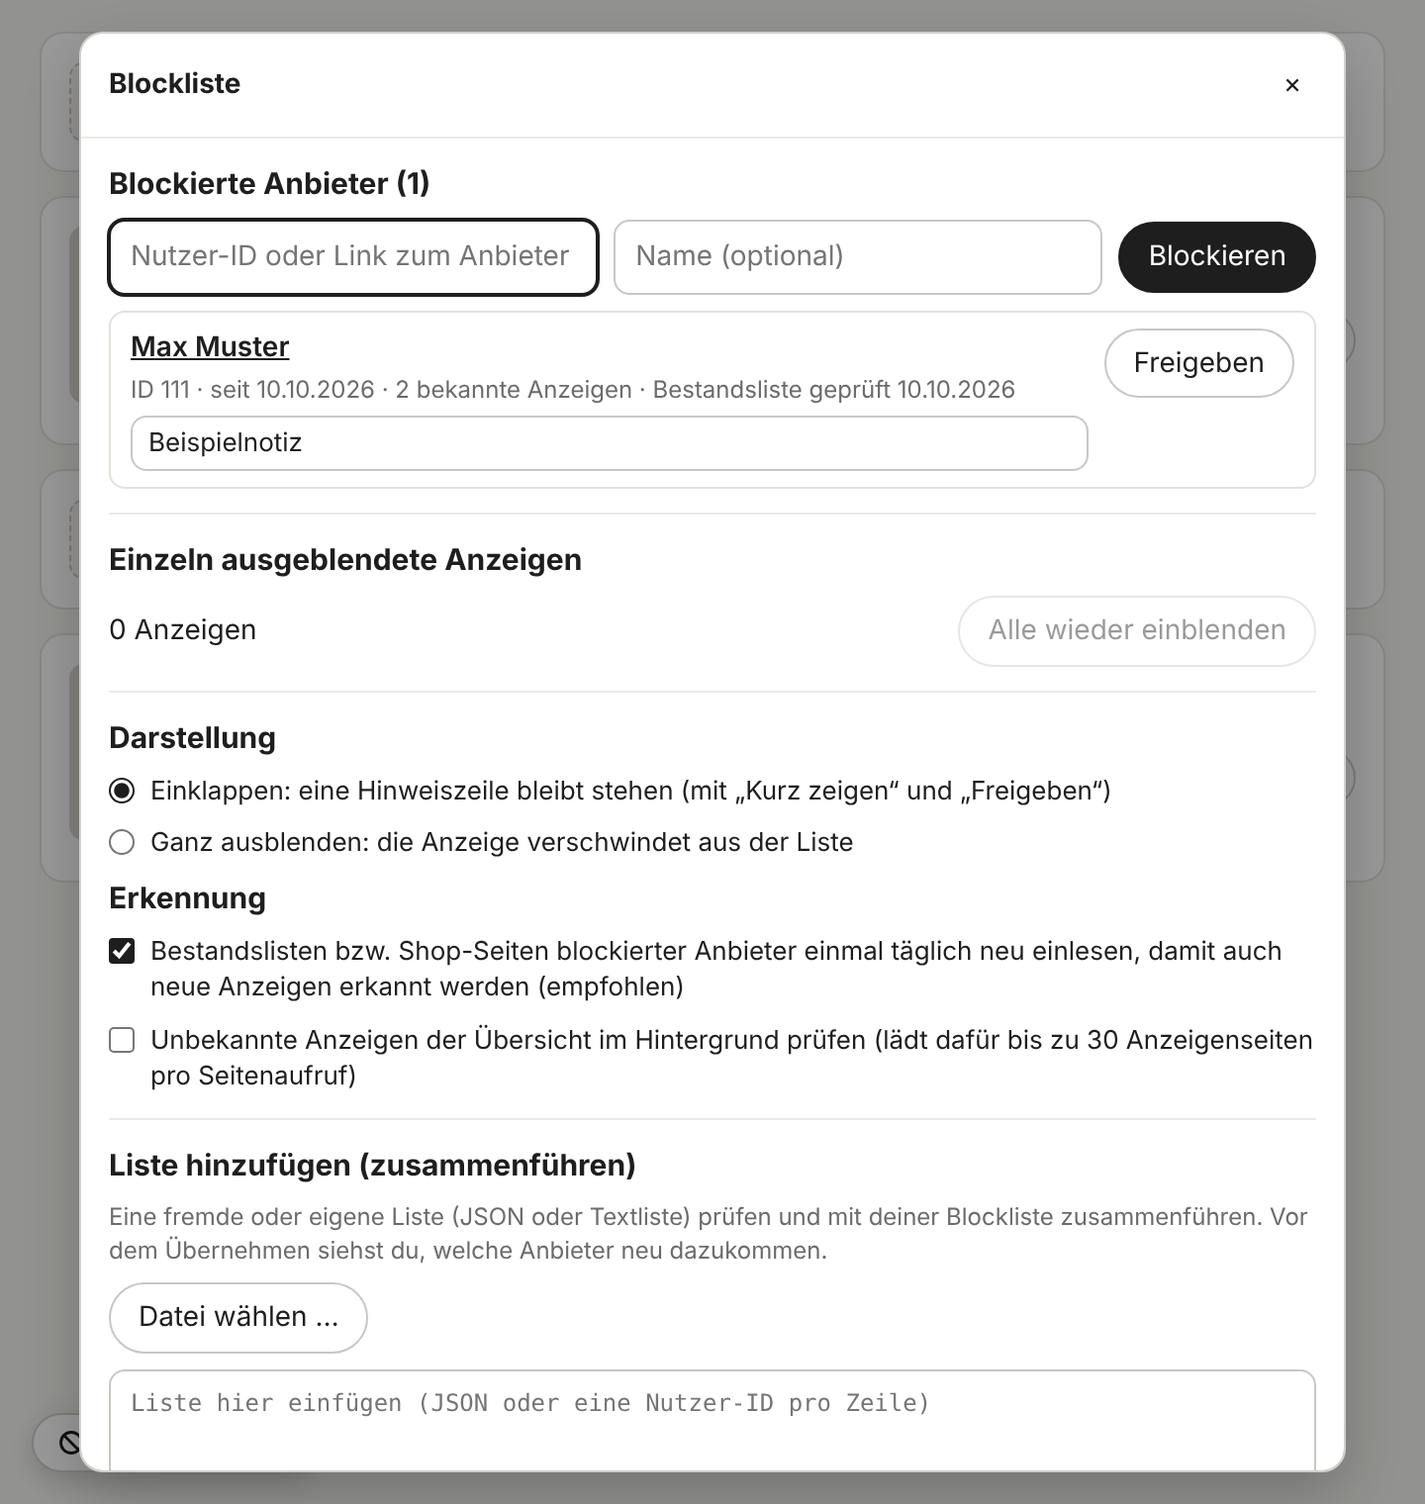
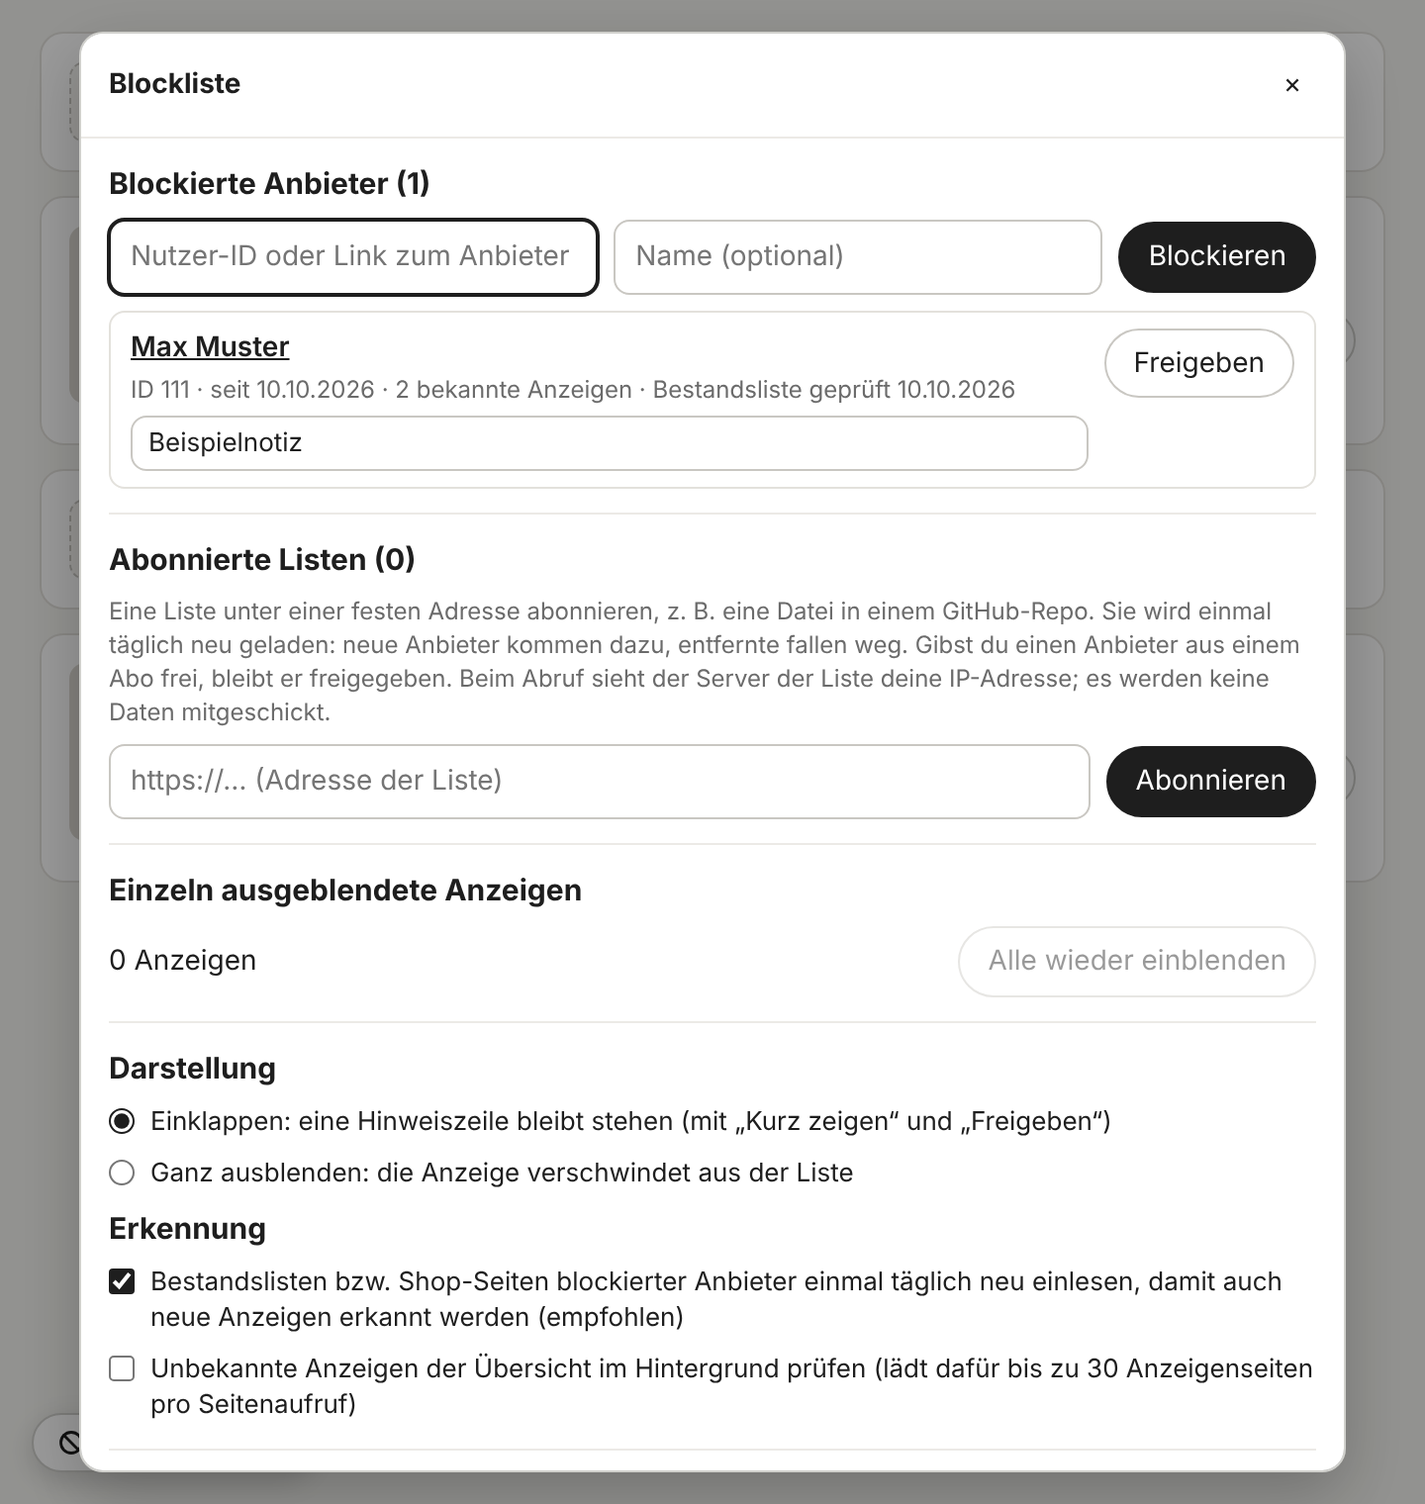
0.3.0: Listen abonnieren
- Neuer Abschnitt "Abonnierte Listen" in der Verwaltung: https-Adresse
  eintragen (GitHub-Dateiansicht wird in den Rohtext-Link umgewandelt),
  Liste wird sofort und danach höchstens einmal täglich geladen
- Abgleich: neue Anbieter dazu, nicht mehr gelistete weg; eigene Einträge
  und Einträge aus zusammengeführten Listen bleiben unberührt
- Freigeben eines Anbieters aus einem Abo wird als Ausnahme gemerkt
  ("Ausnahmen zurücksetzen" hebt das auf); "Entfernen" beendet das Abo
- Einträge aus Abos stehen nicht in der eigenen Liste und werden nicht
  exportiert; einzelne Anzeigen aus Abos werden nicht übernommen
- Abruf über GM_xmlhttpRequest ohne Cookies, max. 2 MB, 20 s Zeitlimit
  (neue Berechtigung, @connect)
- README: Anleitung, gemeinsame Liste bereitstellen, Datenschutz-Hinweis,
  Vorschaubild

Claude-Session: https://claude.ai/code/session_014sFgFRkrmEZ3zcA73WQFGZ

Changed region(s): [[0.0625, 0.3401, 0.9375, 0.9586]]

diff --git a/script.user.js b/script.user.js
@@ -1,11 +1,11 @@
 // ==UserScript==
 // @name          Kleinanzeigen - Nutzer ausblenden (Blockliste)
 // @namespace     https://github.com/RainbowLabsInc/Kleinanzeigen.de-User_ausblenden
-// @description   Blendet auf Kleinanzeigen.de Anzeigen von Nutzerinnen und Nutzern aus, die du blockierst. Eigene Blockliste mit Notizen, einzelne Anzeigen ausblenden, Listen exportieren und zusammenführen.
+// @description   Blendet auf Kleinanzeigen.de Anzeigen von Nutzerinnen und Nutzern aus, die du blockierst. Eigene Blockliste mit Notizen, einzelne Anzeigen ausblenden, Listen exportieren, zusammenführen und abonnieren.
 // @author        RainbowlabsInc
 // @copyright     2026, RainbowlabsInc
 // @license       MIT
-// @version       0.2.0
+// @version       0.3.0
 // @icon          https://github.com/RainbowLabsInc/Kleinanzeigen.de-User_ausblenden/raw/main/assets/icon48.png
 // @homepage      https://github.com/RainbowLabsInc/Kleinanzeigen.de-User_ausblenden
 // @updateURL     https://github.com/RainbowLabsInc/Kleinanzeigen.de-User_ausblenden/raw/main/script.user.js
@@ -15,6 +15,10 @@
 // @grant         GM_setValue
 // @grant         GM_addValueChangeListener
 // @grant         GM_registerMenuCommand
+// @grant         GM_xmlhttpRequest
+// @connect       raw.githubusercontent.com
+// @connect       gist.githubusercontent.com
+// @connect       *
 // @noframes
 // @run-at        document-idle
 // ==/UserScript==
@@ -50,7 +54,9 @@
  * Die Blockliste lässt sich als JSON oder als Textliste (ähnlich einer Filterliste)
  * exportieren. Fremde Listen werden nach einer Vorschau mit der eigenen zusammengeführt;
  * übernommene Einträge merken sich ihre Herkunft und lassen sich gemeinsam wieder
- * freigeben. Das Format ist im README beschrieben.
+ * freigeben. Listen unter einer festen Adresse lassen sich abonnieren: Sie werden
+ * täglich neu geladen und mit der Blockliste abgeglichen. Das Format ist im README
+ * beschrieben.
  *
  * Alle Selektoren und Grenzwerte stehen gesammelt in CONFIG.
  */
@@ -58,15 +64,16 @@
 (function () {
     'use strict';
 
-    const VERSION = '0.2.0';
+    const VERSION = '0.3.0';
 
     const CONFIG = {
         keys: {
-            users: 'kua-users',          // { <userId>: { name, note, added, source? } }
+            users: 'kua-users',          // { <userId>: { name, note, added, source?, sub? } }
             ads: 'kua-hidden-ads',       // { <adId>: <Zeitstempel> } einzeln ausgeblendete Anzeigen
             index: 'kua-ad-index',       // { <adId>: <userId> } bekannte Zuordnung Anzeige -> Anbieter
             scanned: 'kua-scanned',      // { <userId>: <Zeitstempel> } letzte geladene Bestandsliste
             settings: 'kua-settings',
+            subs: 'kua-subs',            // { <url>: { title, added, lastCheck, lastSuccess, error, excluded: [] } }
         },
         defaultSettings: {
             mode: 'collapse',            // 'collapse' = Hinweiszeile, 'hide' = ganz ausblenden
@@ -88,6 +95,11 @@
         nameMax: 80,
         noteMax: 300,
         sourceMax: 80,
+        // Abonnierte Listen: so oft neu laden, pro Seitenaufruf höchstens so viele, max. Größe
+        subRefreshMs: 24 * 60 * 60 * 1000,
+        subsPerVisit: 2,
+        subMaxBytes: 2 * 1024 * 1024,
+        subTimeoutMs: 20000,
         // Link zur Bestandsliste bzw. zum Shop (Stand 10/2026)
         sellerUrl: (id) => id.startsWith('pro:')
             ? `/pro/${encodeURIComponent(id.slice(4))}`
@@ -161,6 +173,19 @@
         const m = s.match(/[?&]userId=(\d{1,15})(?!\d)/);
         if (m) return m[1];
         return ID_RE.test(s) ? s.toLowerCase() : null;
+    }
+
+    // Adresse einer abonnierten Liste: nur https, GitHub-Dateiansicht -> Rohtext
+    function normalizeListUrl(raw) {
+        if (typeof raw !== 'string') return null;
+        let url;
+        try { url = new URL(raw.trim()); } catch (e) { return null; }
+        if (url.protocol !== 'https:' || url.username || url.password) return null;
+        const blob = url.hostname === 'github.com' && url.pathname.match(/^\/([^/]+)\/([^/]+)\/(?:blob|raw)\/(.+)$/);
+        if (blob) url = new URL(`https://raw.githubusercontent.com/${blob[1]}/${blob[2]}/${blob[3]}`);
+        url.hash = '';
+        const s = url.href;
+        return s.length <= 500 ? s : null;
     }
 
     const isShop = (id) => id.startsWith('pro:');
@@ -245,6 +270,8 @@
         };
         const source = clip(o.source, CONFIG.sourceMax);
         if (source) user.source = source;
+        const sub = normalizeListUrl(o.sub);
+        if (sub) user.sub = sub;
         return user;
     }
 
@@ -294,7 +321,28 @@
             index,
             scanned,
             settings,
+            subs: loadSubs(),
         };
+    }
+
+    function loadSubs() {
+        const subs = {};
+        const raw = load(CONFIG.keys.subs, {});
+        if (!isObj(raw)) return subs;
+        for (const [rawUrl, v] of Object.entries(raw)) {
+            const url = normalizeListUrl(rawUrl);
+            if (!url || !isObj(v)) continue;
+            const num = (x) => (typeof x === 'number' ? x : 0);
+            subs[url] = {
+                title: clip(v.title, CONFIG.sourceMax),
+                added: num(v.added) || Date.now(),
+                lastCheck: num(v.lastCheck),
+                lastSuccess: num(v.lastSuccess),
+                error: clip(v.error, 200),
+                excluded: Array.isArray(v.excluded) ? v.excluded.map(normalizeUserId).filter(Boolean) : [],
+            };
+        }
+        return subs;
     }
 
     let state = loadState();
@@ -303,6 +351,7 @@
     const saveAds = () => save(CONFIG.keys.ads, state.ads);
     const saveScanned = () => save(CONFIG.keys.scanned, state.scanned);
     const saveSettings = () => save(CONFIG.keys.settings, state.settings);
+    const saveSubs = () => save(CONFIG.keys.subs, state.subs);
 
     // Neue Zuordnungen sammeln und gebündelt speichern. Vor dem Speichern mit dem
     // gespeicherten Stand zusammenführen, damit parallel offene Tabs nichts überschreiben.
@@ -493,7 +542,14 @@
     }
 
     function unblockUser(id) {
-        if (!state.users[id]) return;
+        const u = state.users[id];
+        if (!u) return;
+        // Aus einem Abo: als Ausnahme merken, sonst käme der Eintrag beim nächsten Abgleich zurück
+        const sub = u.sub && state.subs[u.sub];
+        if (sub && !sub.excluded.includes(id)) {
+            sub.excluded.push(id);
+            saveSubs();
+        }
         delete state.users[id];
         saveUsers();
         refreshPage();
@@ -508,6 +564,96 @@
     function unhideAd(adId) {
         delete state.ads[adId];
         saveAds();
+        refreshPage();
+    }
+
+    // ------------------------------------------------------------------
+    // Abonnierte Listen
+    // ------------------------------------------------------------------
+
+    // Lädt die Liste ohne Cookies. GM_xmlhttpRequest umgeht die Sicherheitsregeln der Seite
+    // (Tampermonkey fragt beim ersten Abruf einer neuen Adresse ggf. nach); ohne fetch().
+    function fetchListText(url) {
+        return new Promise((resolve, reject) => {
+            const check = (text) => (text.length > CONFIG.subMaxBytes
+                ? reject(new Error('Die Liste ist zu groß (max. 2 MB).')) : resolve(text));
+            if (typeof GM_xmlhttpRequest === 'function') {
+                GM_xmlhttpRequest({
+                    method: 'GET', url, anonymous: true, timeout: CONFIG.subTimeoutMs,
+                    headers: { 'Cache-Control': 'no-cache' },
+                    onload: (r) => (r.status >= 200 && r.status < 300 ? check(r.responseText || '') : reject(new Error(`HTTP ${r.status}`))),
+                    onerror: () => reject(new Error('Adresse nicht erreichbar oder Zugriff nicht erlaubt')),
+                    ontimeout: () => reject(new Error('Zeitüberschreitung')),
+                });
+            } else {
+                fetch(url, { credentials: 'omit', cache: 'no-cache' })
+                    .then(r => (r.ok ? r.text() : Promise.reject(new Error(`HTTP ${r.status}`))))
+                    .then(check, () => reject(new Error('Adresse nicht erreichbar')));
+            }
+        });
+    }
+
+    // Gleicht ein Abo mit der Blockliste ab: neue Anbieter dazu, nicht mehr gelistete weg.
+    // Eigene Einträge und Einträge aus anderen Listen bleiben unberührt, Ausnahmen werden übersprungen.
+    // Einzelne Anzeigen (anzeige:...) werden bei Abos nicht übernommen.
+    const syncing = new Set();
+
+    async function syncSub(url) {
+        const sub = state.subs[url];
+        if (!sub || syncing.has(url)) return null;
+        syncing.add(url);
+        try {
+            sub.lastCheck = Date.now();
+            let list;
+            try {
+                list = parseList(await fetchListText(url));
+            } catch (e) {
+                sub.error = clip(e.message, 200);
+                saveSubs();
+                throw e;
+            }
+            const title = list.title || sub.title || new URL(url).hostname;
+            const wanted = new Map(list.users.filter(u => !sub.excluded.includes(u.id)).map(u => [u.id, u]));
+            const result = { added: 0, removed: 0, total: wanted.size, title };
+            for (const [id, u] of Object.entries(state.users)) {
+                if (u.sub === url && !wanted.has(id)) { delete state.users[id]; result.removed++; }
+            }
+            for (const [id, u] of wanted) {
+                const cur = state.users[id];
+                if (!cur) {
+                    state.users[id] = cleanUser({ ...u, added: Date.now(), source: title, sub: url });
+                    result.added++;
+                } else if (cur.sub === url) {
+                    state.users[id] = cleanUser({ ...u, added: cur.added, source: title, sub: url });
+                }
+            }
+            Object.assign(sub, { title, lastSuccess: Date.now(), error: '' });
+            saveUsers();
+            saveSubs();
+            refreshPage();
+            return result;
+        } finally {
+            syncing.delete(url);
+        }
+    }
+
+    // Fällige Abos nacheinander aktualisieren (beim Seitenaufruf)
+    async function refreshSubs() {
+        const now = Date.now();
+        const due = Object.keys(state.subs)
+            .filter(url => now - state.subs[url].lastCheck > CONFIG.subRefreshMs)
+            .sort((a, b) => state.subs[a].lastCheck - state.subs[b].lastCheck)
+            .slice(0, CONFIG.subsPerVisit);
+        for (const url of due) {
+            try { await syncSub(url); } catch (e) { console.warn('[Nutzer ausblenden] Abo nicht geladen:', url, e); }
+        }
+    }
+
+    function removeSub(url) {
+        Object.keys(state.users).forEach(id => { if (state.users[id].sub === url) delete state.users[id]; });
+        delete state.subs[url];
+        saveUsers();
+        saveSubs();
         refreshPage();
     }
 
@@ -767,7 +913,8 @@
             const parts = [el('p', { className: 'kua-muted' }, sellerText)];
             if (blocked) {
                 parts.push(el('p', { className: 'kua-note', dataset: { kind: 'ok' } },
-                    `Blockiert seit ${fmtDate(blocked.added)}${blocked.note ? ` · ${blocked.note}` : ''}`));
+                    `Blockiert seit ${fmtDate(blocked.added)}${blocked.note ? ` · ${blocked.note}` : ''}`
+                    + (blocked.source ? ` · aus ${blocked.sub ? 'Abo ' : ''}„${blocked.source}“` : '')));
                 parts.push(el('div', { className: 'kua-row' },
                     el('span', { className: 'kua-spacer' }),
                     el('button', { type: 'button', className: 'kua-action', onclick: () => { unblockUser(uid); render(); } }, 'Anbieter freigeben')));
@@ -1060,7 +1207,7 @@
         applyOverview();
         watchPage(applyOverview);
 
-        setTimeout(() => refreshBlockedSellers(), 3000);
+        setTimeout(() => refreshSubs().then(refreshBlockedSellers), 3000);
     }
 
     // Das Menü bleibt offen, solange sein Button noch auf der Seite ist
@@ -1150,8 +1297,11 @@
     // Blockliste: Export / Import
     // ------------------------------------------------------------------
 
+    // Exportiert wird nur die eigene Liste (inkl. zusammengeführter Listen), keine Abo-Einträge
+    const ownUsers = () => Object.entries(state.users).filter(([, u]) => !u.sub);
+
     function exportJson() {
-        const users = Object.entries(state.users)
+        const users = ownUsers()
             .sort((a, b) => a[1].added - b[1].added)
             .map(([id, u]) => ({ id, name: u.name, note: u.note, added: new Date(u.added).toISOString(), ...(u.source ? { source: u.source } : {}) }));
         return JSON.stringify({
@@ -1172,7 +1322,7 @@
             '# Eine Zeile pro Anbieter: <Nutzer-ID> [Name] [# Notiz]',
             '# Einzelne Anzeigen: anzeige:<Anzeigen-Nr>',
         ];
-        Object.entries(state.users)
+        ownUsers()
             .sort((a, b) => a[1].added - b[1].added)
             .forEach(([id, u]) => {
                 let line = id;
@@ -1330,7 +1480,7 @@
         if (!panel) return;
         const { box } = panel;
         const scrollTop = box.scrollTop;
-        const ids = Object.keys(state.users);
+        const ids = Object.keys(state.users).filter(id => !state.users[id].sub);
         const adCounts = {};
         Object.values(state.index).forEach(uid => { if (state.users[uid]) adCounts[uid] = (adCounts[uid] || 0) + 1; });
 
@@ -1529,6 +1679,67 @@
                         if (!window.confirm(`Alle ${n} Anbieter aus „${src}“ freigeben? Deine eigenen Einträge bleiben erhalten.`)) return;
                         removeSource(src);
                     } }, 'Alle freigeben')))) : null;
+        // --- Abonnierte Listen
+        const subUrl = el('input', { className: 'kua-input', type: 'url', placeholder: 'https://… (Adresse der Liste)', 'aria-label': 'Adresse der Liste' });
+        const subStatus = el('p', { className: 'kua-note', role: 'status', hidden: true });
+        const subCounts = {};
+        Object.values(state.users).forEach(u => { if (u.sub) subCounts[u.sub] = (subCounts[u.sub] || 0) + 1; });
+        const subResultText = (r) => `„${r.title}“: ${r.total} Anbieter in der Liste`
+            + (r.added || r.removed ? ` (${r.added} neu, ${r.removed} entfernt)` : ', keine Änderungen') + '.';
+        const doSubscribe = async () => {
+            const url = normalizeListUrl(subUrl.value);
+            if (!url) { setNote(subStatus, 'Bitte eine vollständige https-Adresse angeben, z. B. https://raw.githubusercontent.com/…/liste.txt.', 'error'); return; }
+            if (state.subs[url]) { setNote(subStatus, 'Diese Liste ist bereits abonniert.', 'ok'); return; }
+            state.subs[url] = { title: '', added: Date.now(), lastCheck: 0, lastSuccess: 0, error: '', excluded: [] };
+            setNote(subStatus, 'Liste wird geladen …');
+            try {
+                const r = await syncSub(url);
+                renderPanel();
+                showPanelNote(`Abonniert: ${subResultText(r)}`
+                    + (r.added ? ` Die Anzeigen der neuen Anbieter werden nach und nach eingelesen (bis zu ${CONFIG.refreshPerVisit} Anbieter pro Seitenaufruf).` : ''), 'ok');
+                if (r.added) refreshBlockedSellers().then(() => renderPanel());
+            } catch (e) {
+                delete state.subs[url];
+                saveSubs();
+                setNote(subStatus, `Die Liste konnte nicht geladen werden: ${e.message}. Nichts wurde abonniert.`, 'error');
+            }
+        };
+        subUrl.addEventListener('keydown', e => { if (e.key === 'Enter') doSubscribe(); });
+        const fmtTime = (ts) => (ts ? new Date(ts).toLocaleString('de-DE', { dateStyle: 'short', timeStyle: 'short' }) : 'nie');
+        const subRows = Object.entries(state.subs).sort((a, b) => a[1].added - b[1].added).map(([url, sub]) => {
+            const n = subCounts[url] || 0;
+            const update = async () => {
+                try {
+                    const r = await syncSub(url);
+                    renderPanel();
+                    if (r) showPanelNote(`Aktualisiert: ${subResultText(r)}`, 'ok');
+                    if (r && r.added) refreshBlockedSellers().then(() => renderPanel());
+                } catch (e) {
+                    renderPanel();
+                    showPanelNote(`„${sub.title || url}“ konnte nicht geladen werden: ${e.message}.`, 'error');
+                }
+            };
+            return el('div', { className: 'kua-user' },
+                el('div', { className: 'kua-user-main' },
+                    el('a', { href: url, target: '_blank', rel: 'noopener noreferrer' }, sub.title || url),
+                    el('span', { className: 'kua-muted' }, `${n} Anbieter · zuletzt aktualisiert ${fmtTime(sub.lastSuccess)}`
+                        + (sub.excluded.length ? ` · ${sub.excluded.length} Ausnahme${sub.excluded.length === 1 ? '' : 'n'}` : '')),
+                    sub.error ? el('span', { className: 'kua-muted', style: 'color:#8e1c1c' }, `Letzter Abruf fehlgeschlagen: ${sub.error}`) : null,
+                    sub.excluded.length ? el('button', { type: 'button', className: 'kua-link', style: 'justify-self:start',
+                        onclick: () => { sub.excluded = []; saveSubs(); update(); } }, 'Ausnahmen zurücksetzen') : null),
+                el('div', { className: 'kua-row', style: 'flex-direction:column;align-items:stretch;gap:4px' },
+                    el('button', { type: 'button', className: 'kua-action', onclick: update }, 'Aktualisieren'),
+                    el('button', { type: 'button', className: 'kua-action', dataset: { danger: '' },
+                        onclick: () => {
+                            if (!window.confirm(`Abo „${sub.title || url}“ entfernen? Die ${n} Anbieter daraus werden freigegeben, deine eigenen Einträge bleiben.`)) return;
+                            removeSub(url);
+                            renderPanel();
+                            showPanelNote(`Abo entfernt, ${n} Anbieter freigegeben.`, 'ok');
+                        } }, 'Entfernen')));
+        });
+        const subCount = Object.keys(state.subs).length;
+        const subTotal = Object.values(subCounts).reduce((a, b) => a + b, 0);
+
         const stamp = new Date().toISOString().slice(0, 10);
         const exportStatus = el('p', { className: 'kua-note', role: 'status', hidden: true });
 
@@ -1543,6 +1754,16 @@
                 ids.length > 5 ? filter : null,
                 listBox,
                 sourcesBox),
+            el('section', { className: 'kua-section' },
+                el('h3', {}, `Abonnierte Listen (${subCount})`),
+                el('p', { className: 'kua-hint' }, 'Eine Liste unter einer festen Adresse abonnieren, z. B. eine Datei in einem GitHub-Repo. '
+                    + 'Sie wird einmal täglich neu geladen: neue Anbieter kommen dazu, entfernte fallen weg. Gibst du einen Anbieter aus einem Abo frei, bleibt er freigegeben. '
+                    + 'Beim Abruf sieht der Server der Liste deine IP-Adresse; es werden keine Daten mitgeschickt.'),
+                el('div', { className: 'kua-row' }, subUrl,
+                    el('button', { type: 'button', className: 'kua-action', dataset: { primary: '' }, onclick: doSubscribe }, 'Abonnieren')),
+                subStatus,
+                subRows.length ? el('div', { className: 'kua-users' }, subRows) : null,
+                subTotal ? el('p', { className: 'kua-hint' }, `Zusammen ${subTotal} Anbieter aus Abos. Sie stehen nicht in der Liste oben und werden nicht exportiert.`) : null),
             el('section', { className: 'kua-section' },
                 el('h3', {}, 'Einzeln ausgeblendete Anzeigen'),
                 el('div', { className: 'kua-row' },
@@ -1612,7 +1833,7 @@
     }
 
     function watchStorage() {
-        const keys = [CONFIG.keys.users, CONFIG.keys.ads, CONFIG.keys.settings];
+        const keys = [CONFIG.keys.users, CONFIG.keys.ads, CONFIG.keys.settings, CONFIG.keys.subs];
         if (hasGM && typeof GM_addValueChangeListener === 'function') {
             keys.forEach(k => GM_addValueChangeListener(k, (name, oldValue, newValue, remote) => { if (remote) onExternalChange(); }));
         } else if (!hasGM) {
